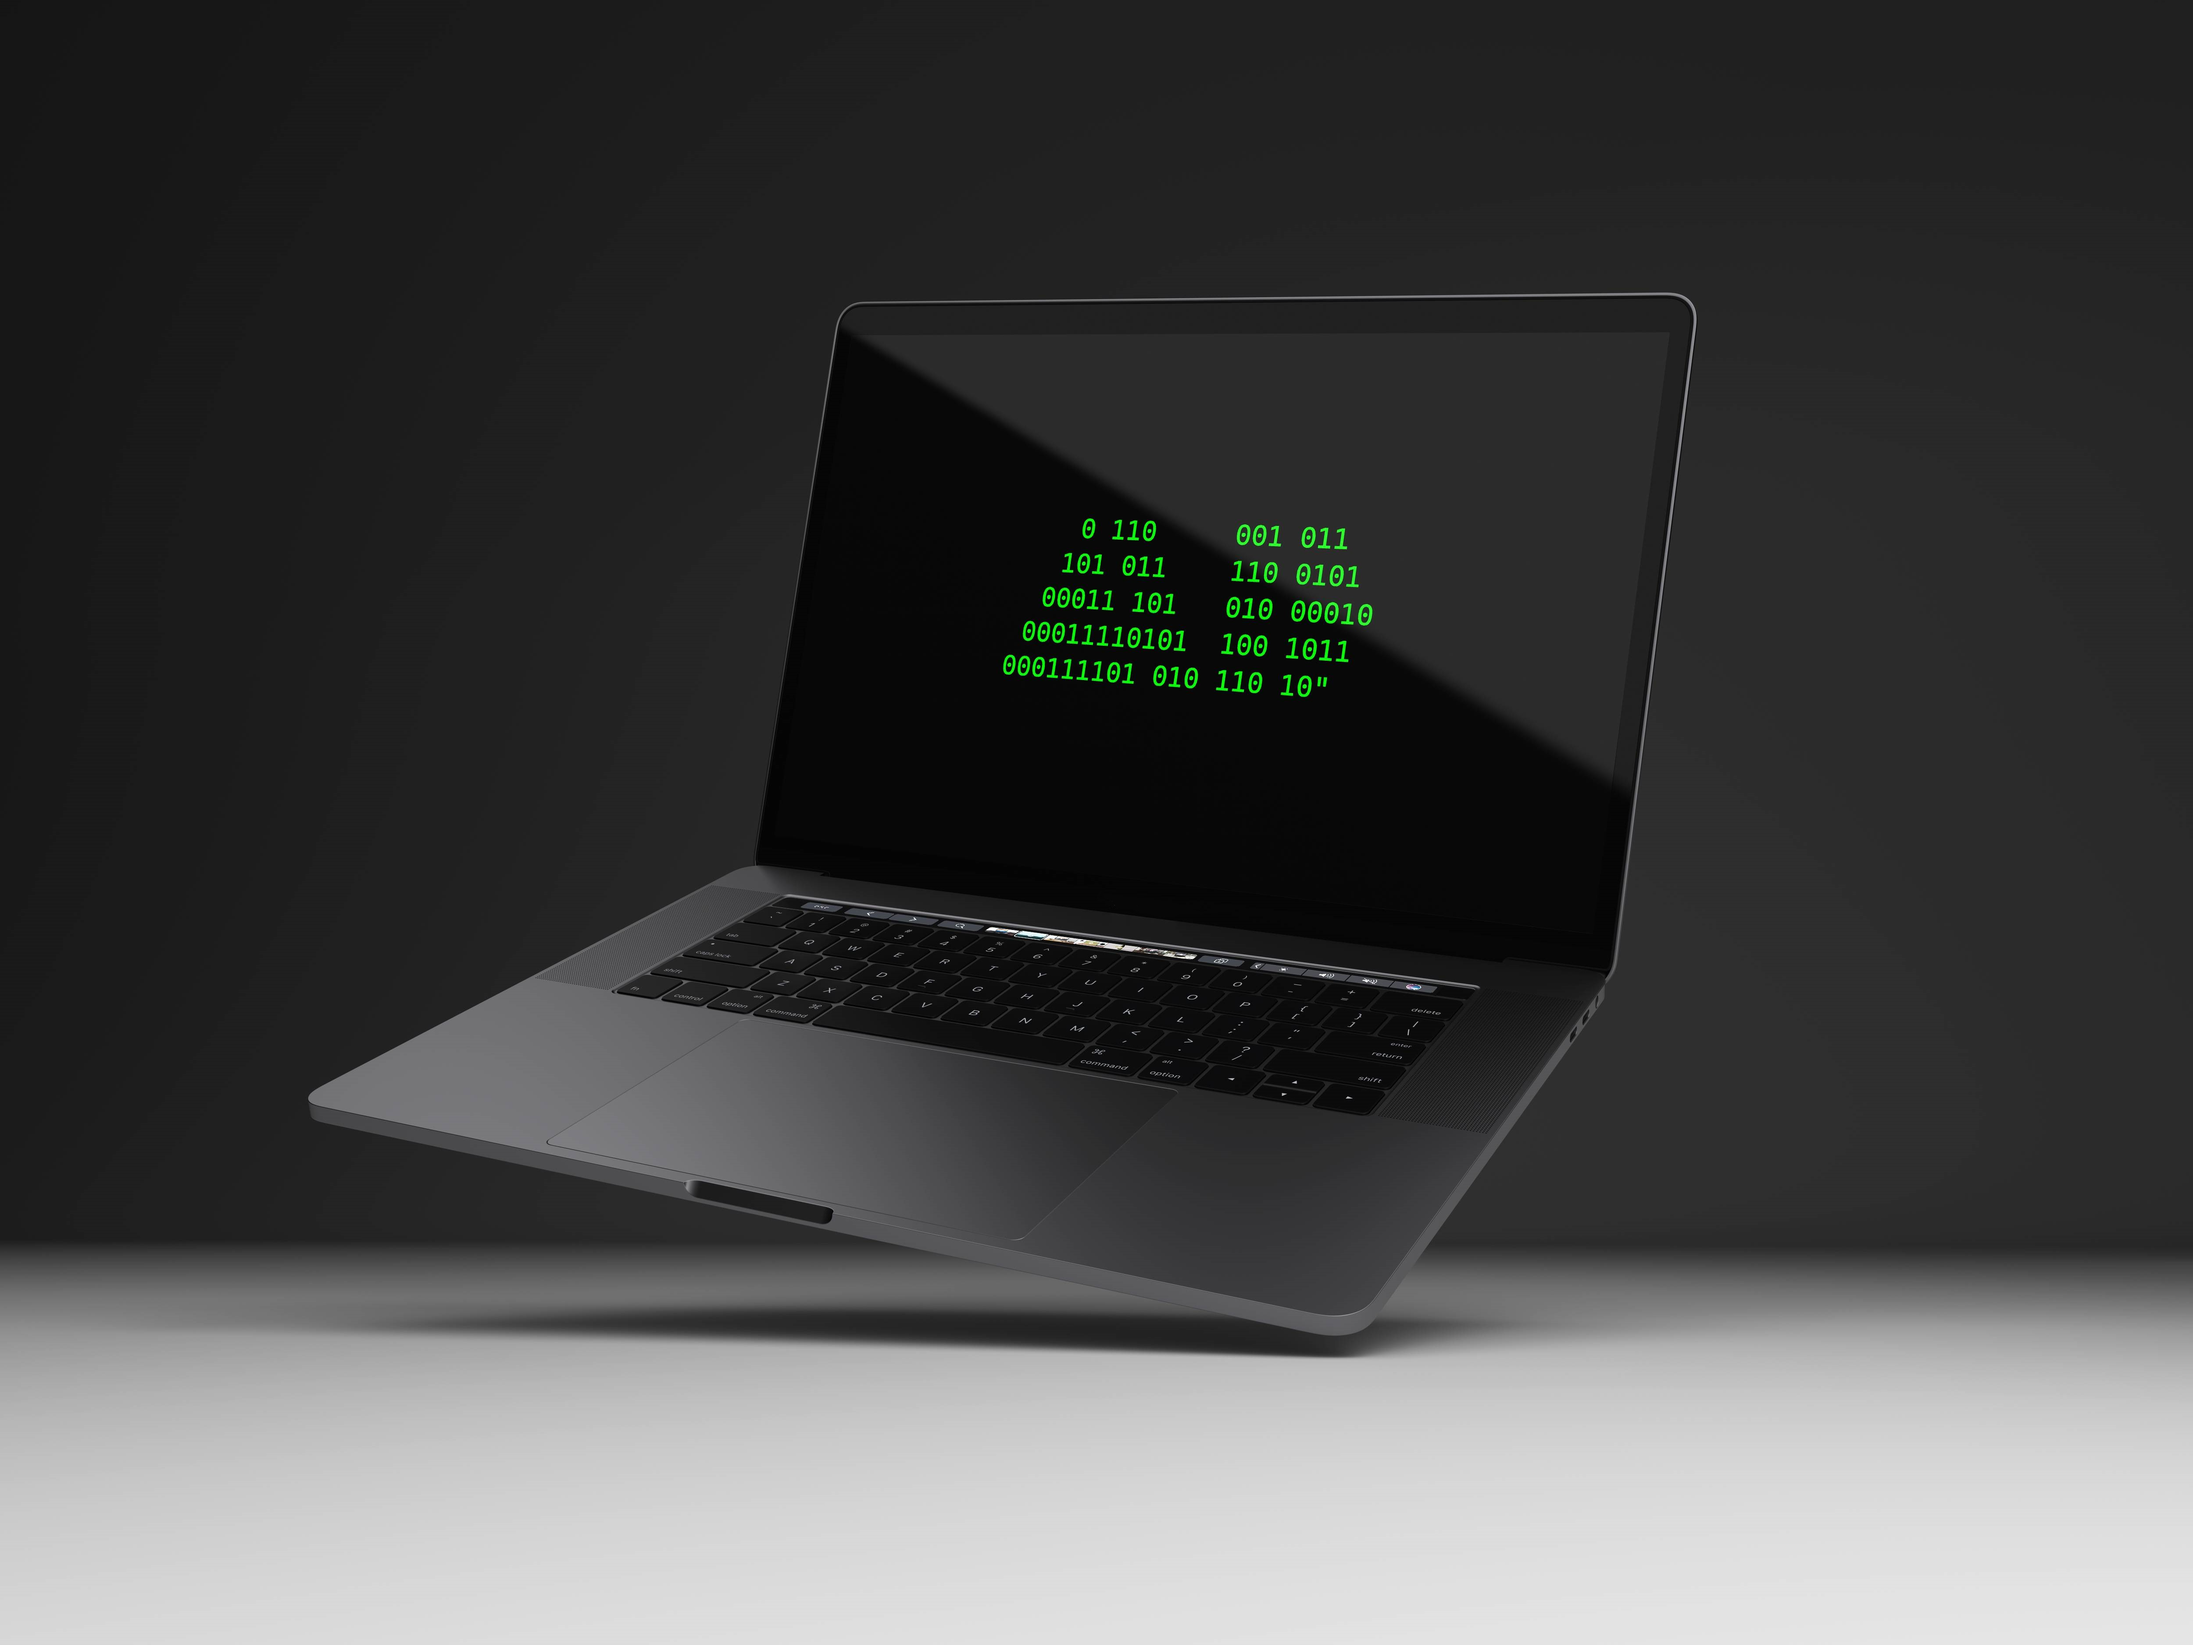
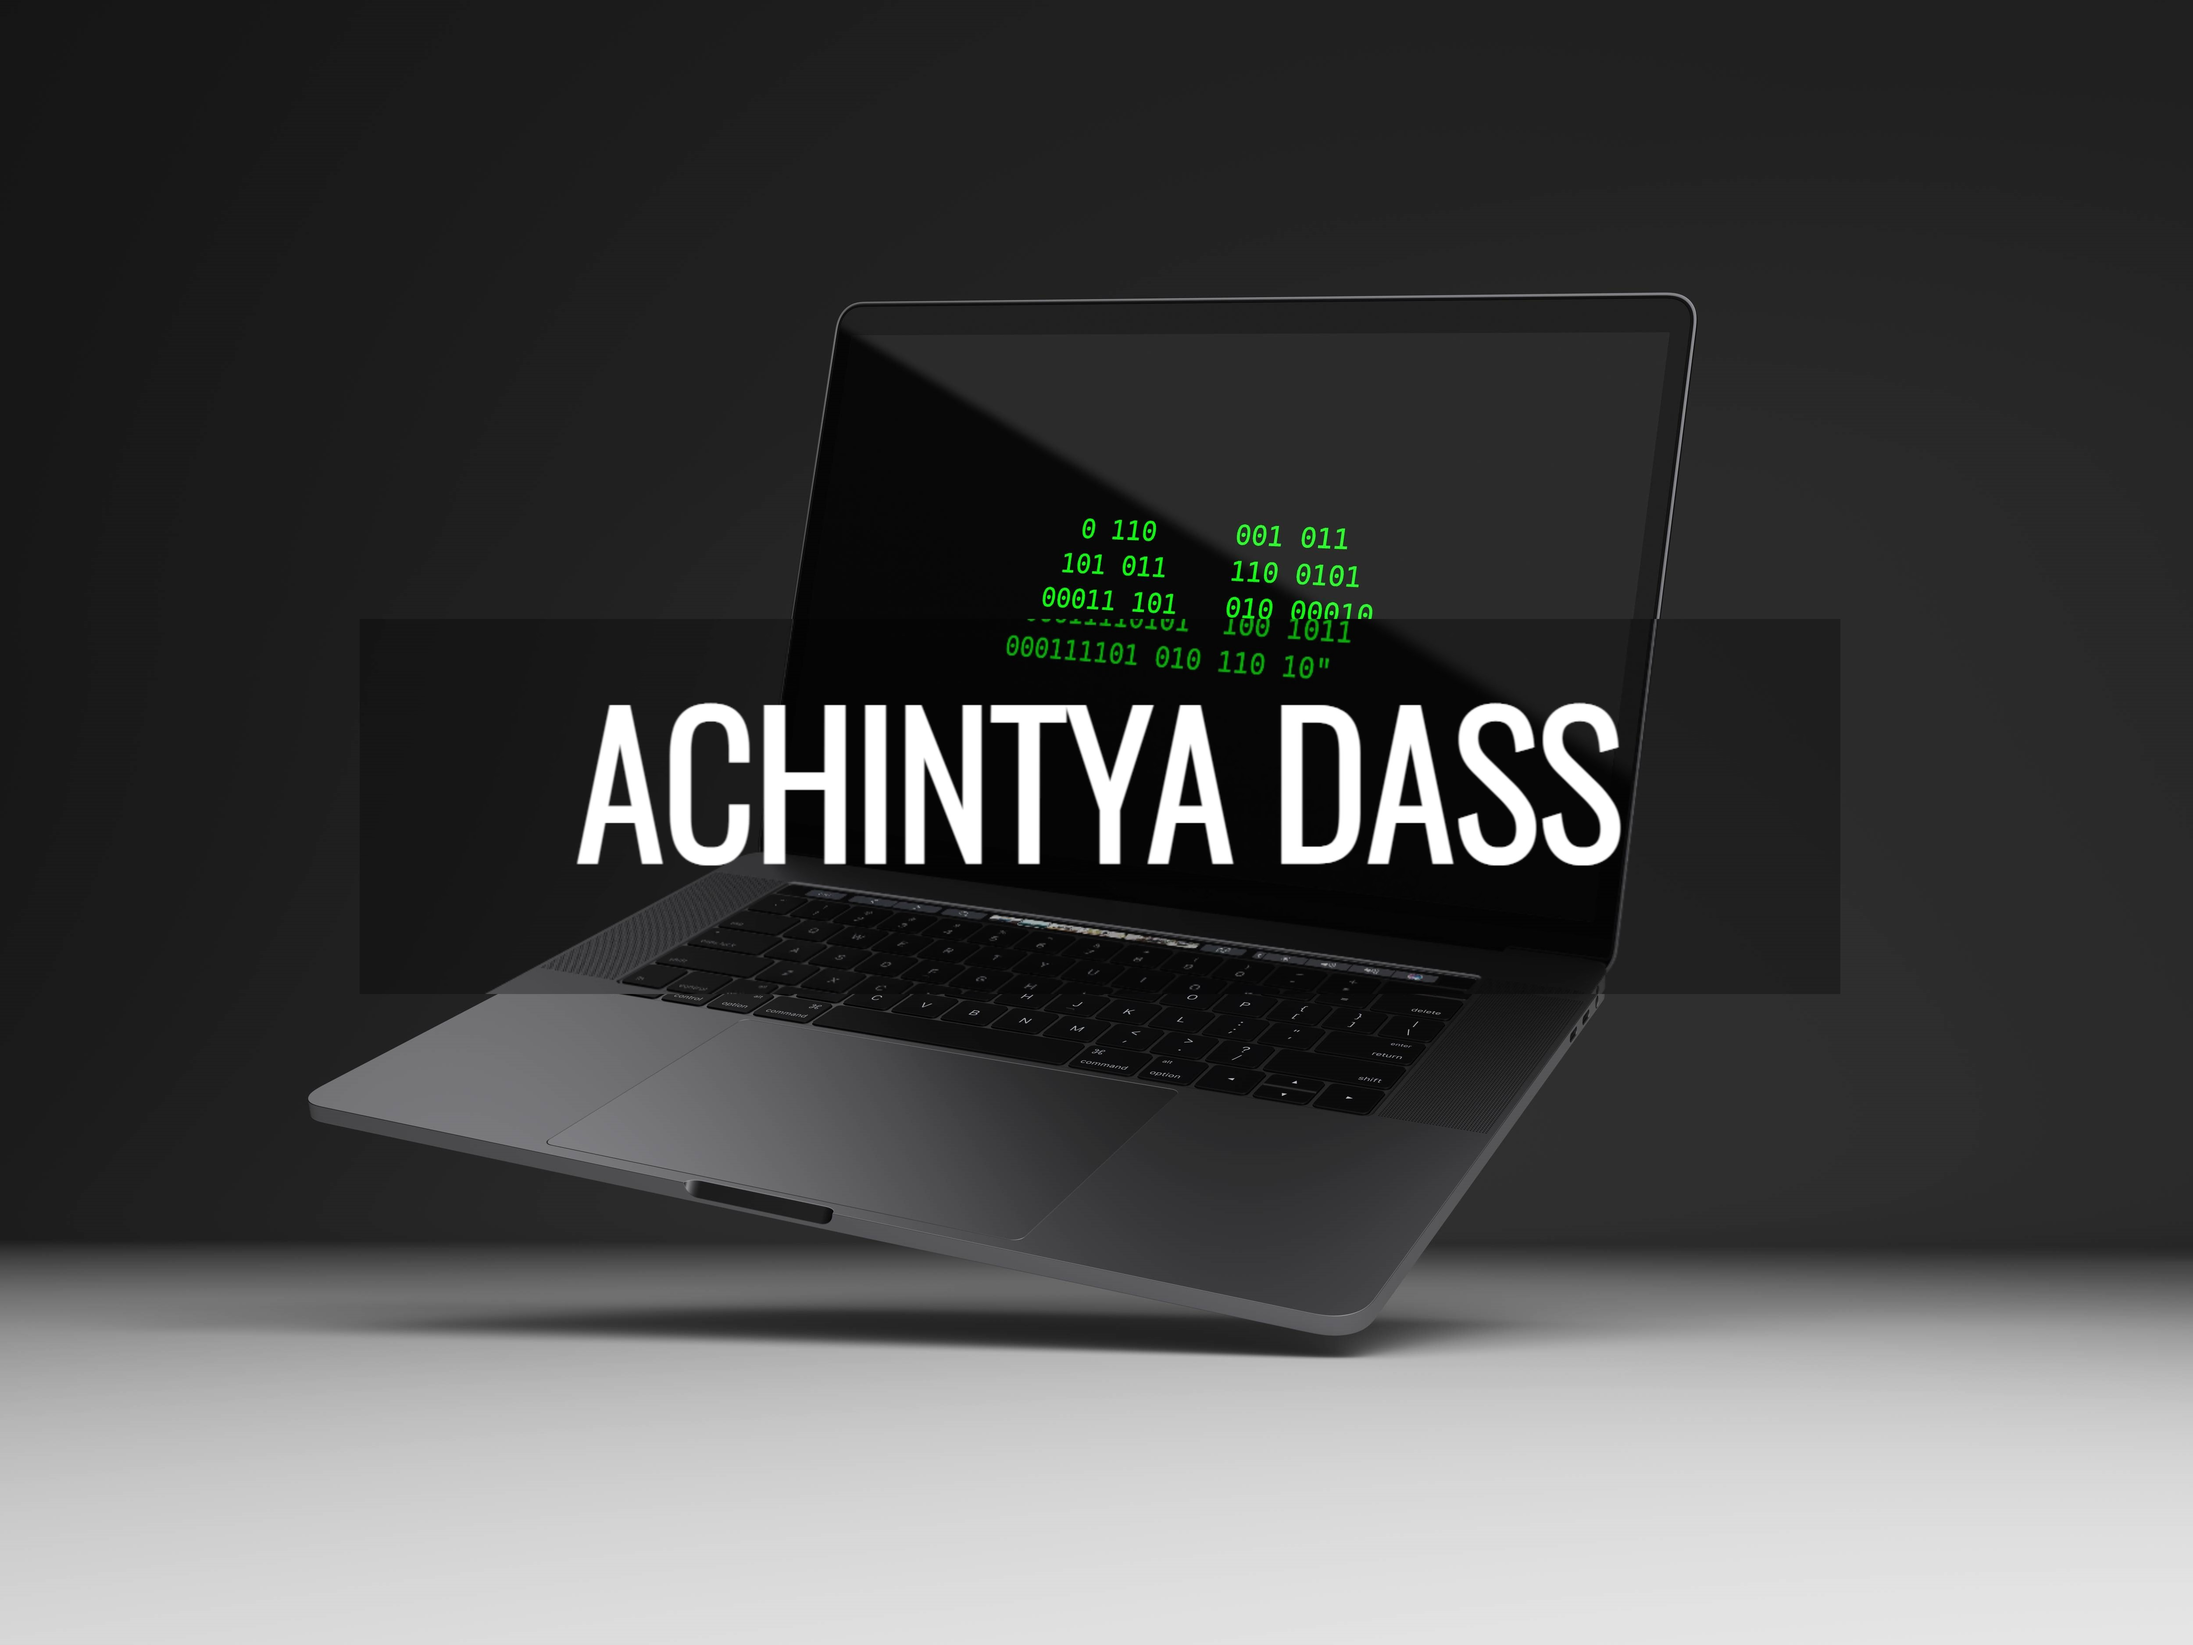
changed landing page

Changed region(s): [[0.2184, 0.3744, 0.7488, 0.624]]

diff --git a/index.html b/index.html
@@ -4,9 +4,9 @@
     <meta charset="utf-8">
     <title>Achintya Dass</title>
     <link rel="stylesheet" href="master.css">
+    <link rel="stylesheet" type="text/css" href="works.css">
     <link rel="icon" href="AD.ico">
     <script defer src="script.js"></script>
-    <link rel="stylesheet" type="text/css" href="works.css">
     <style type="text/css">
       
     </style>
@@ -22,7 +22,7 @@
     </nav> 
     <section id="header">
       <img src="mac.jpg" style="z-index:2;">
-      <h1 id="text">ACHINTYA DASS</h1>
+      
     </section>
     <div class="top-container">
       <div class="container">

diff --git a/master.css b/master.css
@@ -54,7 +54,7 @@ section img{
   width: 66vw;
   height: 30vh;
   z-index:3;
-  background:rgba(0,0,0,0.3);
+  background:#000;
   padding: 15px;
   font-family: 'Oswald', sans-serif;
   color:#fff;
